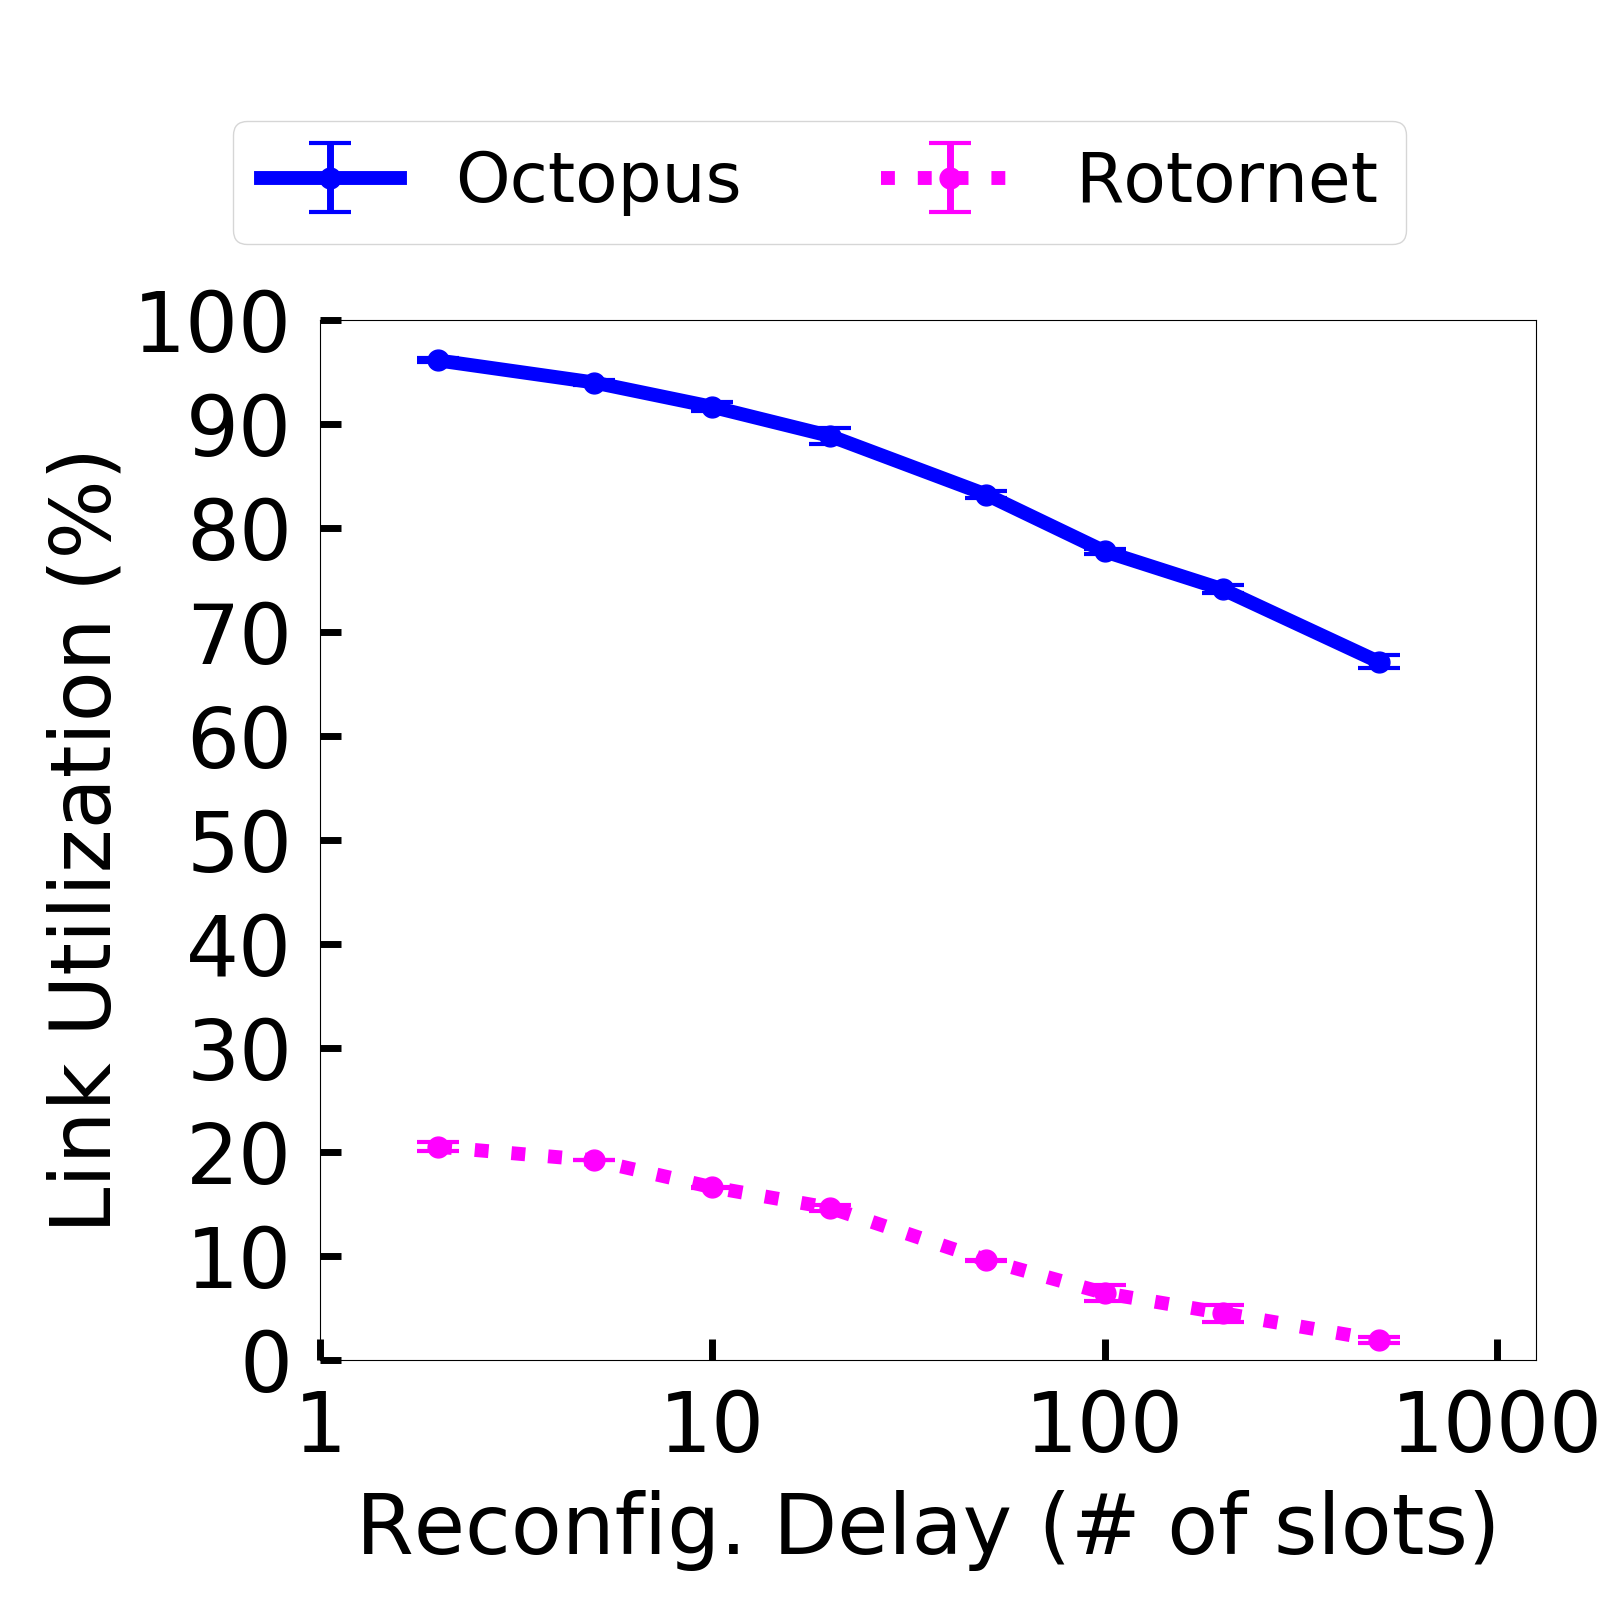
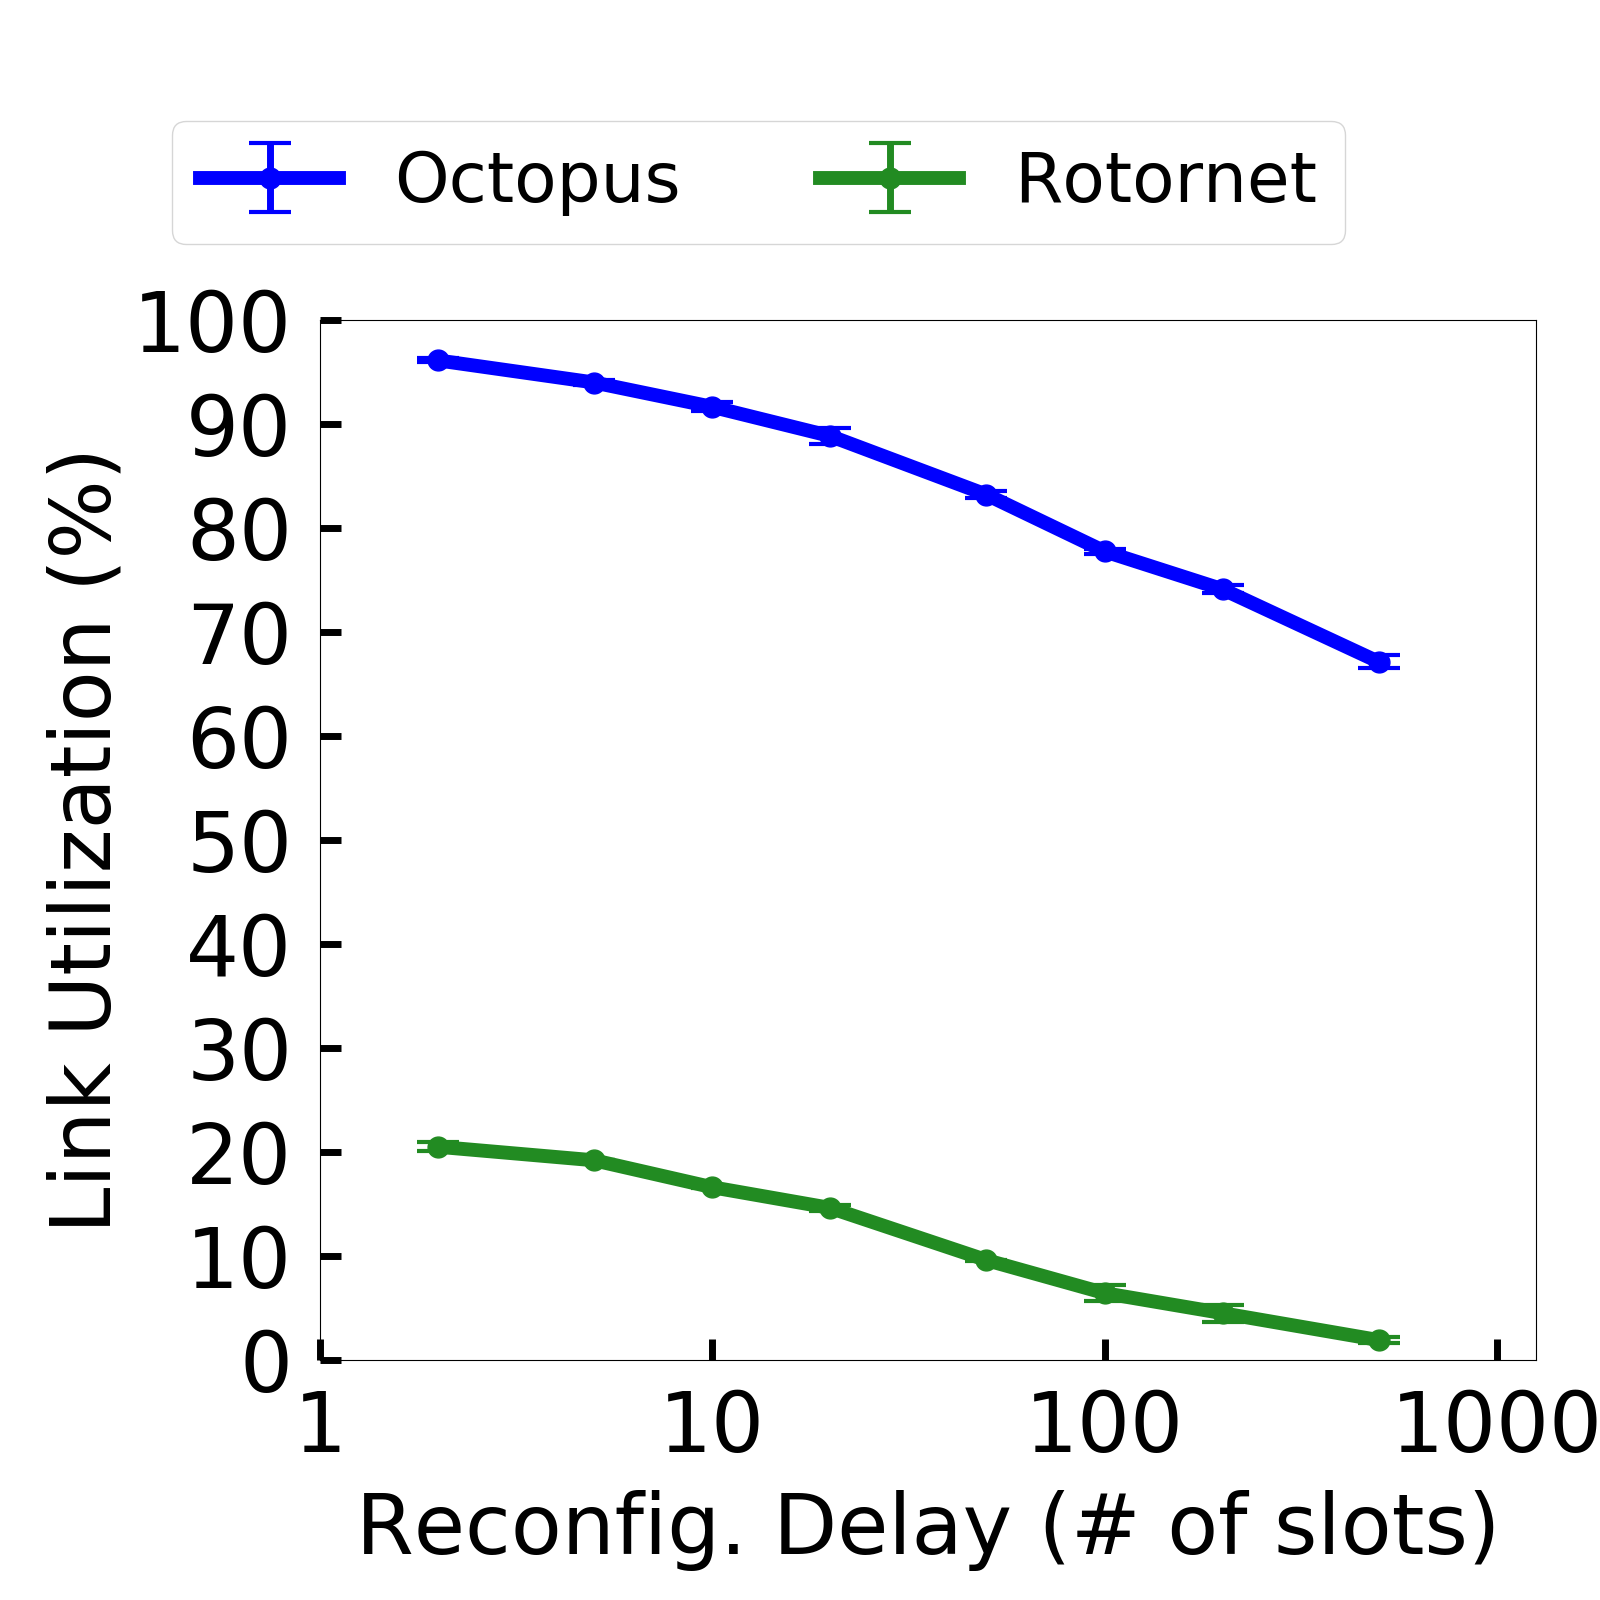
update plots

diff --git a/plots.py b/plots.py
@@ -50,9 +50,9 @@ def y_fmt(tick_val, pos):
 # _MARKER = ['o',       'h',        's',         '^',             'D',       'P']
 
 METHOD  = ['Octopus-Random', 'Octopus', 'Octopus+', 'Octopus-e', 'Octopus-B', 'Eclipse-Based', 'UB',      'Absolute-UB', 'Projector', 'Octopus-G', 'Rotornet']
-_COLOR  = ['b',              'b',       'c',        'gray',      'k',         'g',             'orange',  'r',           'purple',    'cyan',      'magenta']
+_COLOR  = ['b',              'b',       'c',        'gray',      'k',         'g',             'orange',  'r',           'purple',    'cyan',      'forestgreen']
 _MARKER = ['o',              'o',       'o',        'o',         'o',         'o',             'o',       'o',           'o',         'o',         'o']
-_LINE   = ['-',              '-',       ':',        ':',         ':',         ':',             ':',       '-',           '-',         '-',         ':']
+_LINE   = ['-',              '-',       ':',        ':',         ':',         ':',             ':',       '-',           '-',         '-',         '-']
 COLOR   = dict(zip(METHOD, _COLOR))
 MARKER  = dict(zip(METHOD, _MARKER))
 LINE    = dict(zip(METHOD, _LINE))
@@ -88,12 +88,12 @@ def plot_line(table, methods, filename=None, x_label=None, x_log=False, y_label=
 	if x_log:
 		X = np.log10((np.array(X, float)/DEFAULT_WINDOW_SIZE))
 	num = len(table[0]) - 1                         # number of methods
-	
+
 	Y = []
 	for i in range(1, num+1):
 		y = [row[i] for row in table]
 		Y.append(y)
-	
+
 	# core plotting
 	if yerr_table is None:
 		for i in range(0, num):
@@ -114,13 +114,13 @@ def plot_line(table, methods, filename=None, x_label=None, x_log=False, y_label=
 
 	if absolute_ub and y_label == '% of Packets Deliverd':
 		method = 'Absolute-UB'
-		if x_label != 'Average # of hops' and ('Octopus-B' not in methods):
-			y = [66 for _ in X]	
+		if x_label != 'Average # of hops' and ('Octopus-B' not in methods) and ('Rotornet' not in methods) and ('Octopus-G' not in methods):
+			y = [66 for _ in X]
 			plt.plot(X, y, linestyle=LINE[method], marker=MARKER[method], color=COLOR[method], label=method)
 		if x_label == 'Average # of hops':
 			y = [100, 50, 33]
 			plt.plot(X, y, linestyle=LINE[method], marker=MARKER[method], color=COLOR[method], label=method)
-		
+
 	plt.xticks(X)
 	if x_log:       # log scale on x axis
 		plt.xticks(np.arange(-4, 0, 1), ['1', '10', '100', '1000'])
